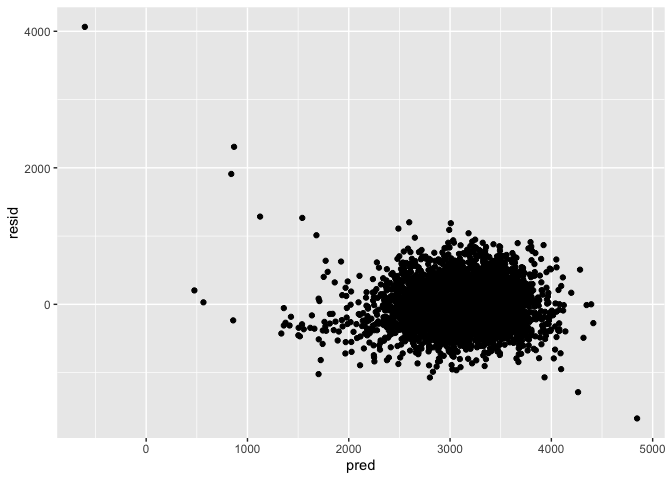
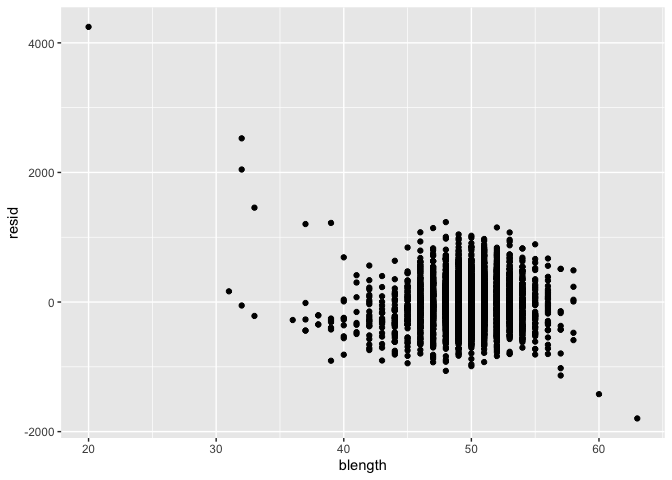
made some change in problem 1

diff --git a/p8105_hw6_wc2788.md b/p8105_hw6_wc2788.md
@@ -42,50 +42,99 @@ sum(is.na(birthweight))
 
     ## [1] 0
 
-There are `nrow(birthweight)` observations and `ncol(birthweight)`
-variables in this dataset, and no missing value.
+There are 4342 observations and 20 variables in this dataset, and no
+missing value.
 
 ### Propose a regression model
 
+bwt may depends on blength and mrace. We fit that initial model in the
+following code.
+
 ``` r
-fit = lm(bwt ~ babysex + blength + delwt + fincome + frace + mrace + wtgain, data = birthweight) 
+fit = lm(bwt ~ blength + mrace, data = birthweight) 
+
+#tidy output
 summary(fit)
 ```
 
     ## 
     ## Call:
-    ## lm(formula = bwt ~ babysex + blength + delwt + fincome + frace + 
-    ##     mrace + wtgain, data = birthweight)
+    ## lm(formula = bwt ~ blength + mrace, data = birthweight)
     ## 
     ## Residuals:
     ##     Min      1Q  Median      3Q     Max 
-    ## -1671.3  -212.0    -5.0   203.2  4064.5 
+    ## -1796.5  -211.5    -6.4   207.7  4246.6 
     ## 
     ## Coefficients:
-    ##                     Estimate Std. Error t value Pr(>|t|)    
-    ## (Intercept)       -3553.0681    96.1684 -36.946  < 2e-16 ***
-    ## babysexfemale        -7.2516     9.9143  -0.731 0.464557    
-    ## blength             126.5506     1.9166  66.028  < 2e-16 ***
-    ## delwt                 2.3398     0.2517   9.296  < 2e-16 ***
-    ## fincome               0.7738     0.2075   3.730 0.000194 ***
-    ## fraceBlack          -22.6665    54.8940  -0.413 0.679690    
-    ## fraceAsian           -7.2809    82.4237  -0.088 0.929614    
-    ## fracePuerto Rican   -71.0238    53.0818  -1.338 0.180965    
-    ## fraceOther           20.7090    88.1182   0.235 0.814209    
-    ## mraceBlack         -139.1683    54.7188  -2.543 0.011014 *  
-    ## mraceAsian          -26.6589    85.4185  -0.312 0.754982    
-    ## mracePuerto Rican   -12.2677    53.5414  -0.229 0.818782    
-    ## wtgain                3.4632     0.5006   6.918 5.27e-12 ***
+    ##                    Estimate Std. Error t value Pr(>|t|)    
+    ## (Intercept)       -3466.184     95.330 -36.360  < 2e-16 ***
+    ## blength             133.931      1.891  70.828  < 2e-16 ***
+    ## mraceBlack         -171.023     10.671 -16.026  < 2e-16 ***
+    ## mraceAsian          -93.239     51.272  -1.819   0.0691 .  
+    ## mracePuerto Rican  -114.940     22.571  -5.092 3.69e-07 ***
     ## ---
     ## Signif. codes:  0 '***' 0.001 '**' 0.01 '*' 0.05 '.' 0.1 ' ' 1
     ## 
-    ## Residual standard error: 324.4 on 4329 degrees of freedom
-    ## Multiple R-squared:    0.6,  Adjusted R-squared:  0.5988 
-    ## F-statistic:   541 on 12 and 4329 DF,  p-value: < 2.2e-16
+    ## Residual standard error: 332.9 on 4337 degrees of freedom
+    ## Multiple R-squared:  0.5779, Adjusted R-squared:  0.5776 
+    ## F-statistic:  1485 on 4 and 4337 DF,  p-value: < 2.2e-16
+
+### Diagnostics
+
+``` r
+birthweight %>% 
+  modelr::add_residuals(fit) %>% 
+  ggplot(aes(x = blength, y = resid)) + geom_point()
+```
+
+![](p8105_hw6_wc2788_files/figure-gfm/unnamed-chunk-3-1.png)<!-- -->
+
+``` r
+birthweight %>% 
+ggplot(aes(x = blength, y = bwt)) + geom_point()
+```
+
+![](p8105_hw6_wc2788_files/figure-gfm/unnamed-chunk-4-1.png)<!-- -->
+longer baby length will have higher baby weight, so blength affects bwt.
+
+``` r
+birthweight %>% 
+  modelr::add_residuals(fit) %>% 
+  ggplot(aes(x = mrace, y = resid)) + geom_boxplot()
+```
+
+![](p8105_hw6_wc2788_files/figure-gfm/unnamed-chunk-5-1.png)<!-- -->
+
+``` r
+birthweight %>% 
+ggplot(aes(x = mrace, y = bwt)) + geom_boxplot()
+```
+
+![](p8105_hw6_wc2788_files/figure-gfm/unnamed-chunk-6-1.png)<!-- -->
+white mother will have higher weight baby compared with other race,
+black mother’ baby will lower weight. So, mrace affects bwt.
+
+### Hypothesis testing
+
+``` r
+#null model are a subset of the terms in a more complex alternative model
+fit_null = lm(bwt ~ blength + mrace, data = birthweight)
+fit_alt = lm(bwt ~ blength + mrace + wtgain, data = birthweight)
+
+anova(fit_null, fit_alt) %>% 
+  broom::tidy()
+```
+
+    ## # A tibble: 2 × 6
+    ##   res.df        rss    df     sumsq statistic   p.value
+    ##    <dbl>      <dbl> <dbl>     <dbl>     <dbl>     <dbl>
+    ## 1   4337 480577440.    NA       NA        NA  NA       
+    ## 2   4336 466658374.     1 13919066.      129.  1.50e-29
 
 ### Make plot
 
 ``` r
+#model residuals against fitted values
 birthweight %>% 
   modelr::add_residuals(fit) %>% 
   modelr::add_predictions(fit) %>% 
@@ -93,7 +142,7 @@ birthweight %>%
   geom_point()
 ```
 
-![](p8105_hw6_wc2788_files/figure-gfm/unnamed-chunk-3-1.png)<!-- -->
+![](p8105_hw6_wc2788_files/figure-gfm/unnamed-chunk-8-1.png)<!-- -->
 
 ### Compare model
 
@@ -119,7 +168,7 @@ cv_df =
 cv_df = 
   cv_df %>% 
   mutate(
-   fit = map(train, ~lm(bwt ~ babysex + blength + delwt + fincome + frace + mrace + wtgain, data = .x)),
+   fit = map(train, ~lm(bwt ~ blength + mrace, data = .x)),
    model_1 = map(train, ~lm(bwt ~ gaweeks + blength, data = .x)),
    model_2 = map(train, ~lm(bwt ~ bhead * blength * babysex, data = .x))) %>% 
   mutate(
@@ -150,10 +199,10 @@ cv_df %>%
        title = "The RMSE Distribution For Each Model") 
 ```
 
-![](p8105_hw6_wc2788_files/figure-gfm/unnamed-chunk-6-1.png)<!-- --> The
-model\_2 has the smallest RMSE, so it is the best fit in these three
-models. model\_1 has the highest RMSE, the fit model has high RMSE
-compared with model\_2, so these two are not best fit.
+![](p8105_hw6_wc2788_files/figure-gfm/unnamed-chunk-11-1.png)<!-- -->
+The model\_2 has the smallest RMSE, so it is the best fit in these three
+models. model\_1 has the highest RMSE, the fit model has higher RMSE
+than model\_2, so these two are not best fit.
 
 ## Problem 2
 
@@ -228,7 +277,9 @@ bootstrap_samples %>%
   )
 ```
 
-![](p8105_hw6_wc2788_files/figure-gfm/unnamed-chunk-10-1.png)<!-- -->
+![](p8105_hw6_wc2788_files/figure-gfm/unnamed-chunk-15-1.png)<!-- -->
+The distribution of r squared peak is around 0.912 and it is a normal
+distribution.
 
 ### 95% CI for log(beta0\*beta1)
 
@@ -270,8 +321,11 @@ bootstrap_samples %>%
   ggplot(aes(x = log_b0b1)) + 
   geom_density() +
   labs(
+    x = "log(beta0*beta1)",
     title = "Distribution of log(beta0*beta1)"
   )
 ```
 
-![](p8105_hw6_wc2788_files/figure-gfm/unnamed-chunk-12-1.png)<!-- -->
+![](p8105_hw6_wc2788_files/figure-gfm/unnamed-chunk-17-1.png)<!-- -->
+The distribution of log(beta0\*beta1) peak is around 2.017 and it is a
+normal distribution.
